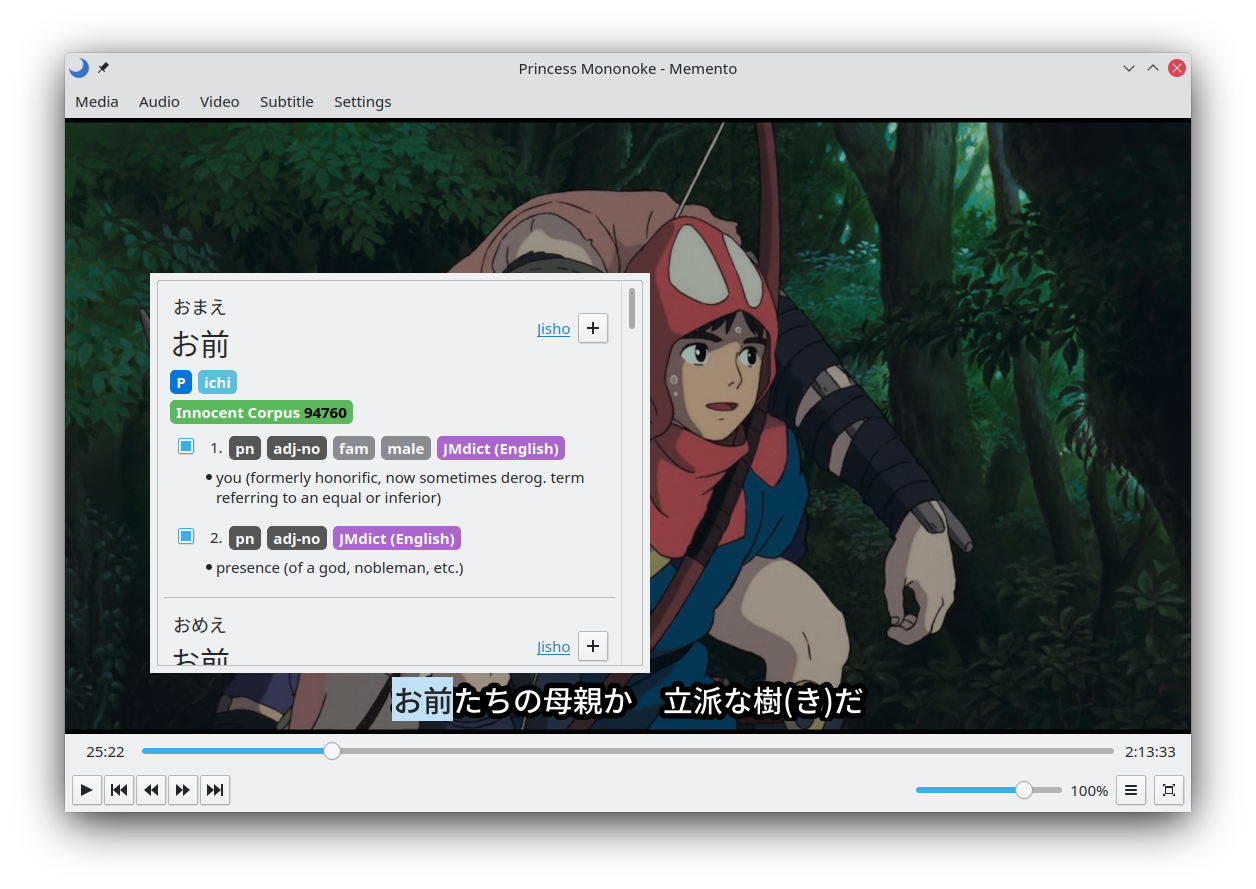
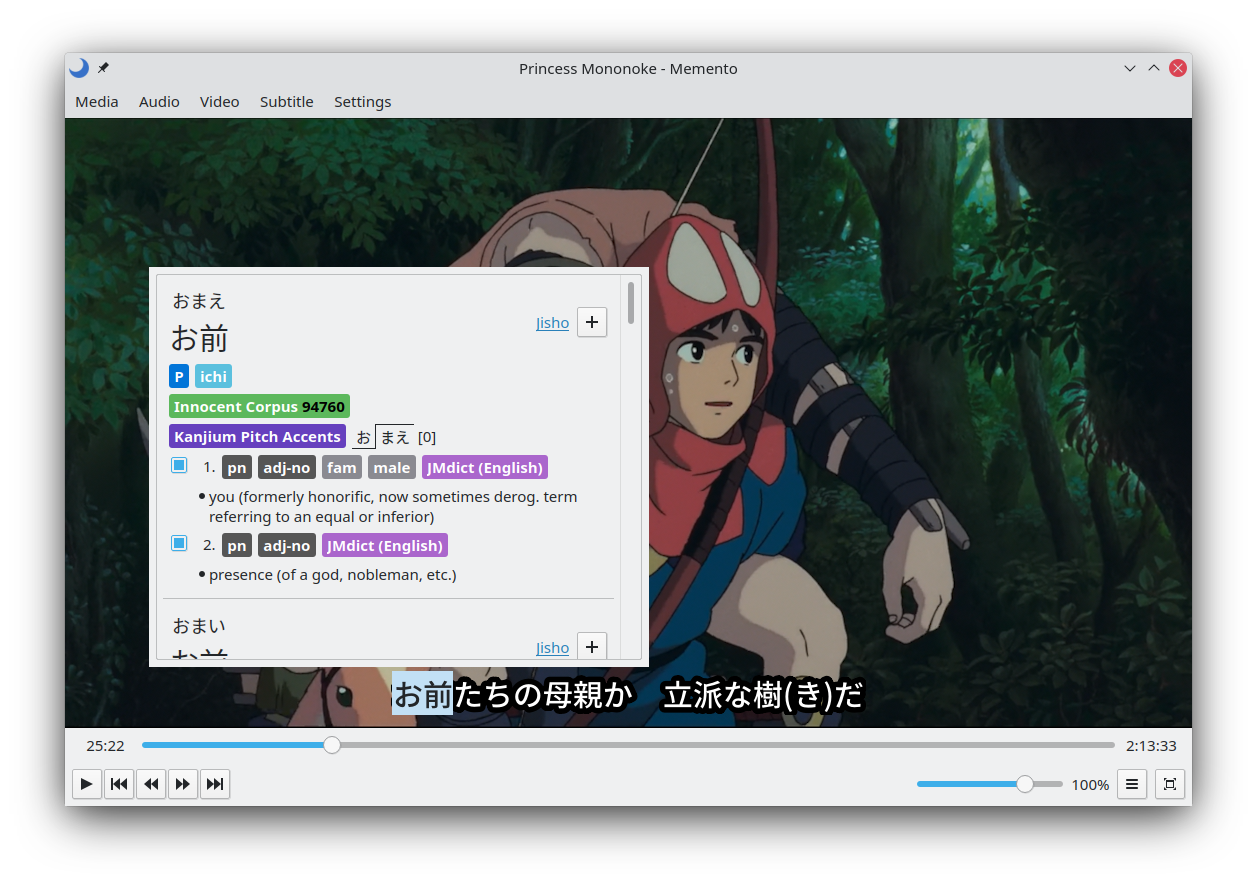
Added kanjium to the README and updated the example image

diff --git a/README.md b/README.md
@@ -10,7 +10,7 @@ Memento is a FOSS, mpv-based video player intended for studying Japanese.
 
 * Grammar aware subtitle search
 * Yomichan-style Kanji cards
-* Support for Yomichan dictionaries (except pitch accent dictionaries like Kanjium)
+* Support for Yomichan dictionaries
 * Anki card creation through [AnkiConnect](https://ankiweb.net/shared/info/2055492159)
 * Support for mpv upscalers, plugins, and configuration files
 
@@ -37,6 +37,8 @@ Memento is a FOSS, mpv-based video player intended for studying Japanese.
     *   [kanjidic\_spanish.zip](https://foosoft.net/projects/yomichan/dl/dict/kanjidic_spanish.zip)
 *   **[Innocent Corpus](https://web.archive.org/web/20190309073023/https://forum.koohii.com/thread-9459.html#pid168613)** (Term and kanji frequencies across 5000+ novels)
     *   [innocent\_corpus.zip](https://foosoft.net/projects/yomichan/dl/dict/innocent_corpus.zip)
+*   **[Kanjium](https://github.com/mifunetoshiro/kanjium)** (Pitch dictionary, see [related project page](https://github.com/toasted-nutbread/yomichan-pitch-accent-dictionary) for details)
+    *   [kanjium_pitch_accents.zip](https://foosoft.net/projects/yomichan/dl/dict/kanjium_pitch_accents.zip)
 
 ## Dependencies
 
@@ -142,7 +144,7 @@ The Memento config directory is located at:
 
 ### Mac OS X
 ```
-~/.config/Memento
+~/.config/memento
 ```
 
 If any mpv binds or plugins do not work, please create an issue in the issue
